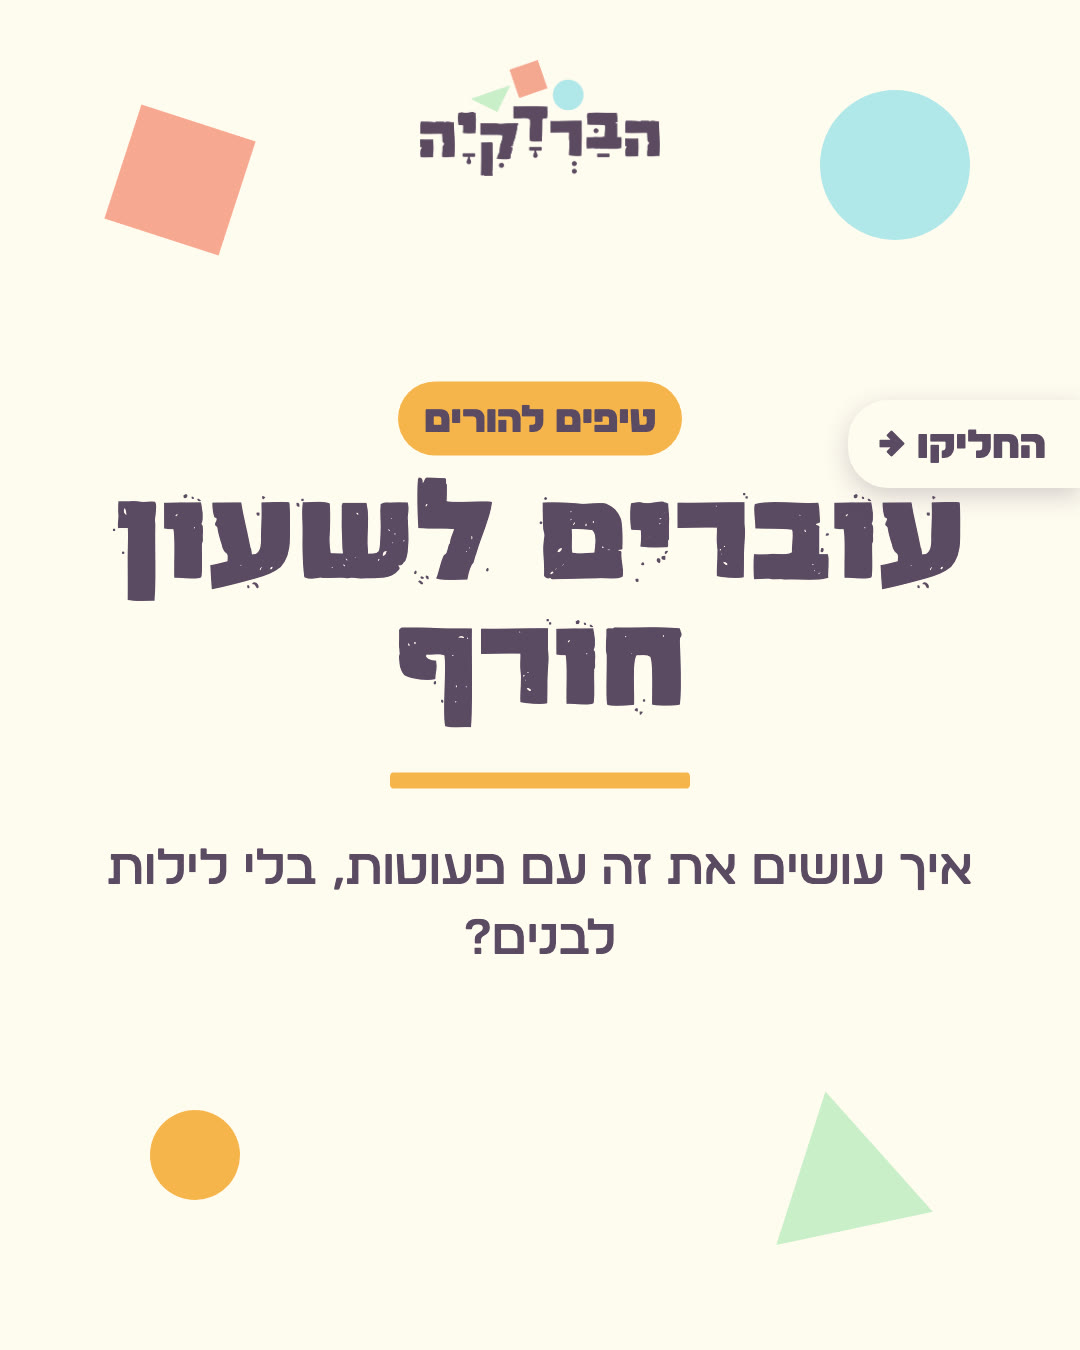
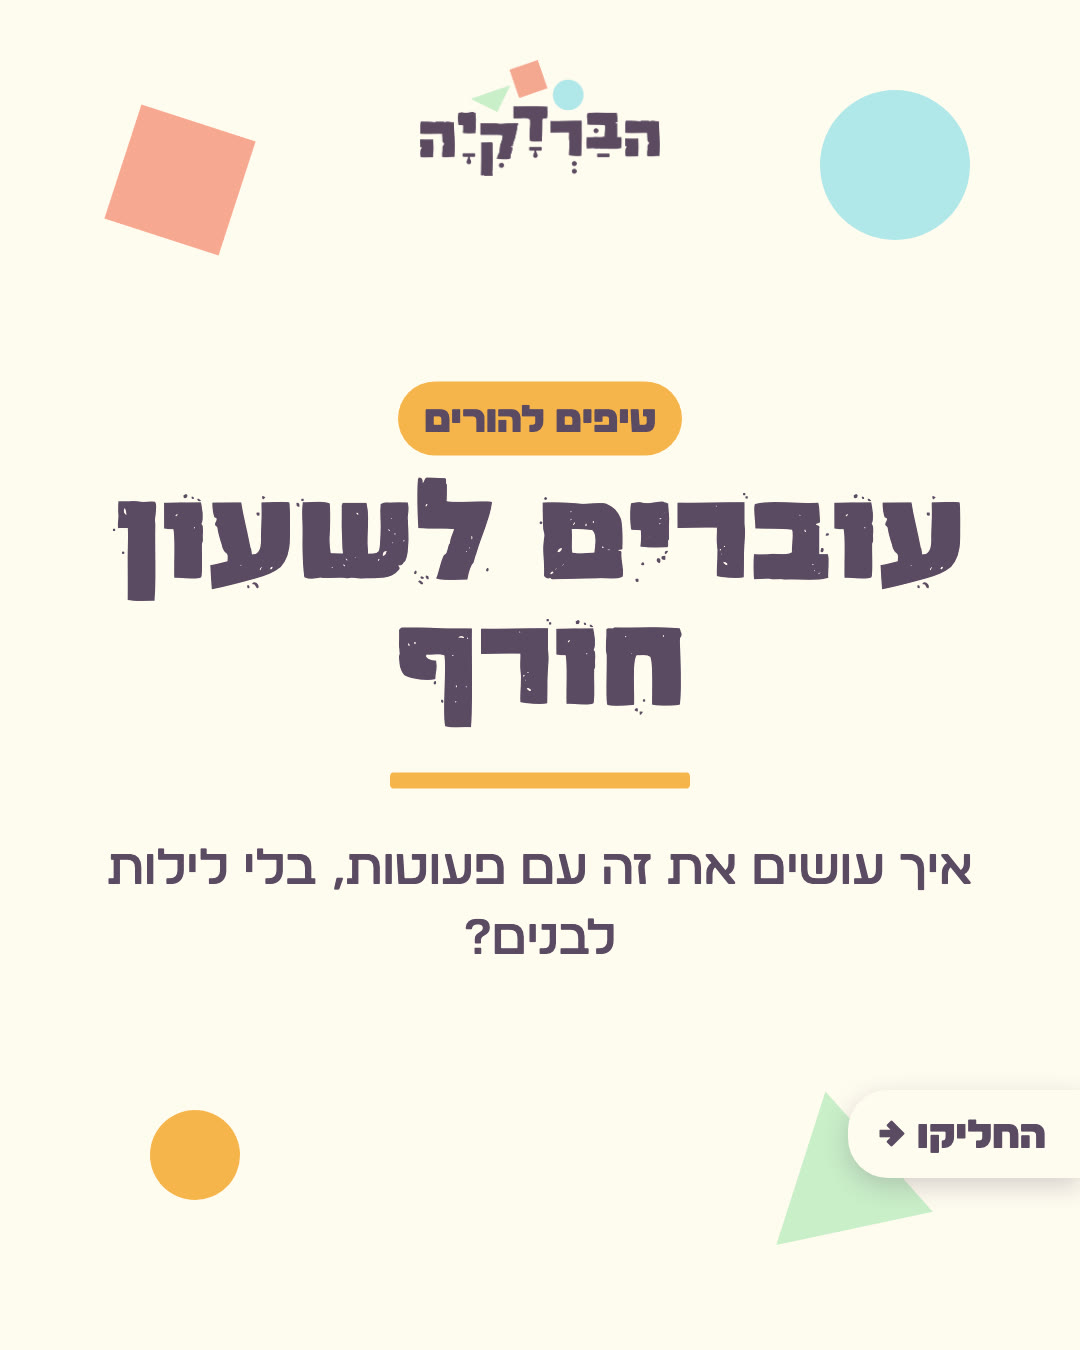
Bardakiya board: three value posts and a community pillar

Changed region(s): [[0.7639, 0.8089, 0.9778, 0.9022], [0.7944, 0.3111, 0.9778, 0.3733]]

diff --git a/bardakiya-board/index.html b/bardakiya-board/index.html
@@ -140,6 +140,7 @@ const PILLARS = [
   { name: "טיפים להורים", color: "var(--blue)", tint: "var(--blue-t)" },
   { name: "שבירת התנגדויות", color: "var(--peach)", tint: "var(--peach-t)" },
   { name: "מוצר", color: "var(--orange)", tint: "var(--orange-t)" },
+  { name: "קהילה והומור", color: "var(--peach)", tint: "#fff1e4" },
   { name: "אווירה", color: "var(--ink-soft)", tint: "#f1ecf2" },
 ];
 const FORMATS = ["קרוסלה", "פוסט", "רילס", "סטורי"];
@@ -156,7 +157,7 @@ function iso(d) { return d.getFullYear() + "-" + pad(d.getMonth() + 1) + "-" + p
 function startOfWeek(d) { const x = new Date(d.getFullYear(), d.getMonth(), d.getDate()); x.setDate(x.getDate() - x.getDay()); return x; }
 function addDays(d, n) { const x = new Date(d); x.setDate(x.getDate() + n); return x; }
 function short(d) { return d.getDate() + "." + (d.getMonth() + 1); }
-function pillar(name) { return PILLARS.find(p => p.name === name) || PILLARS[4]; }
+function pillar(name) { return PILLARS.find(p => p.name === name) || PILLARS[PILLARS.length - 1]; }
 function el(tag, attrs, ...kids) {
   const e = document.createElement(tag);
   for (const [k, v] of Object.entries(attrs || {})) {
